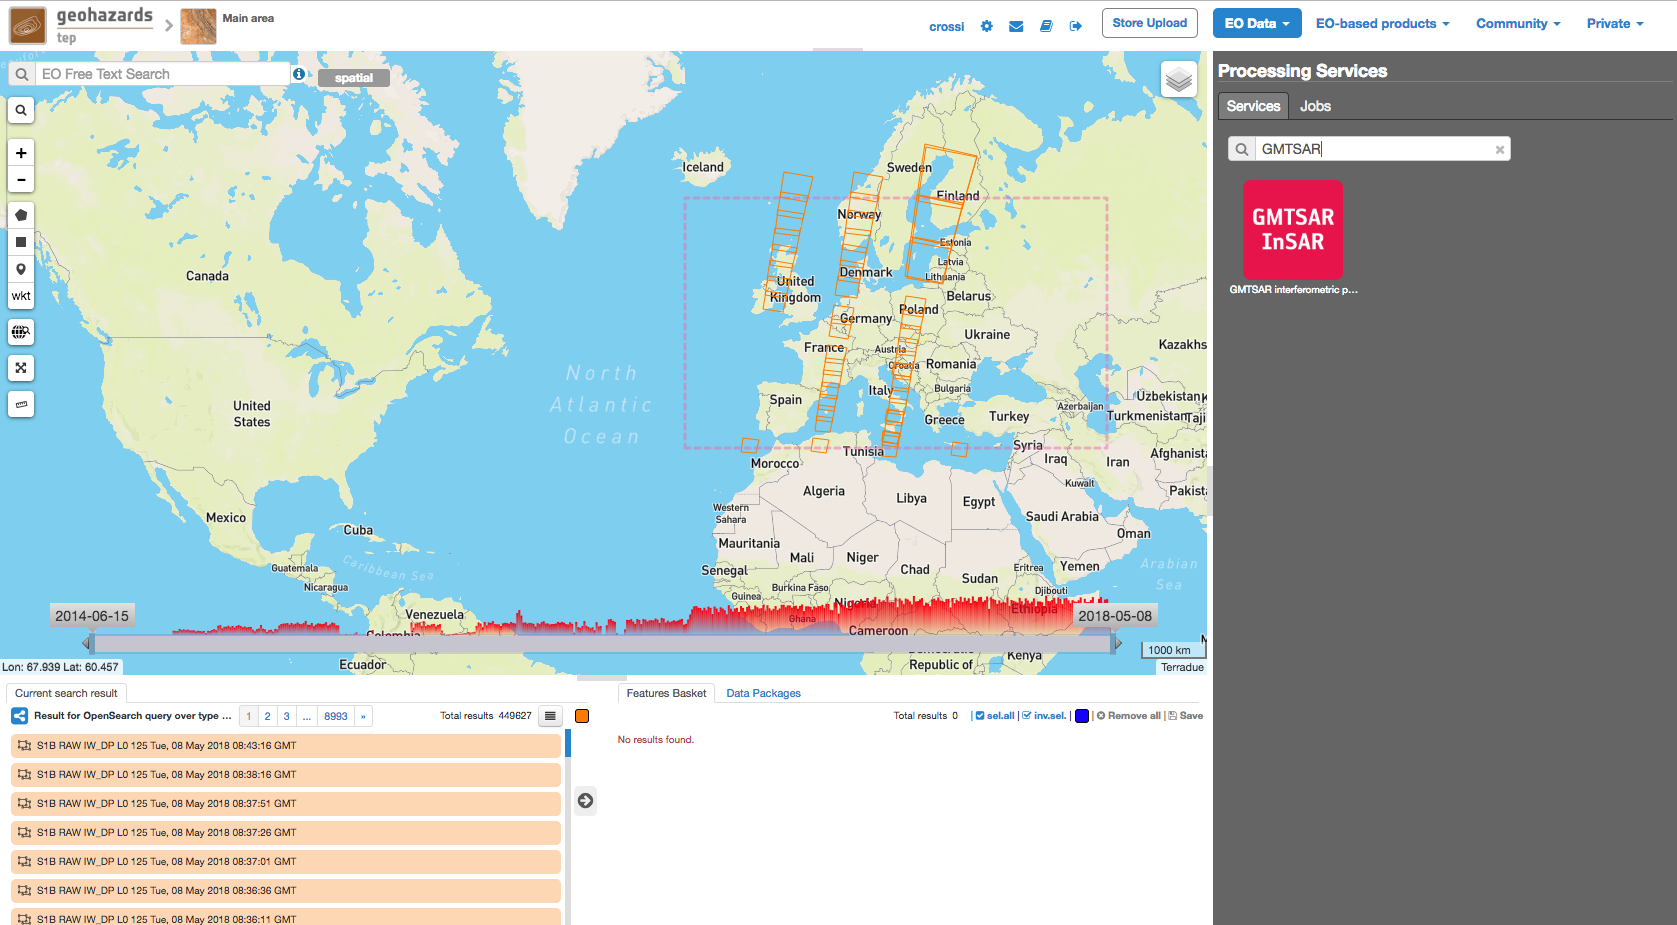
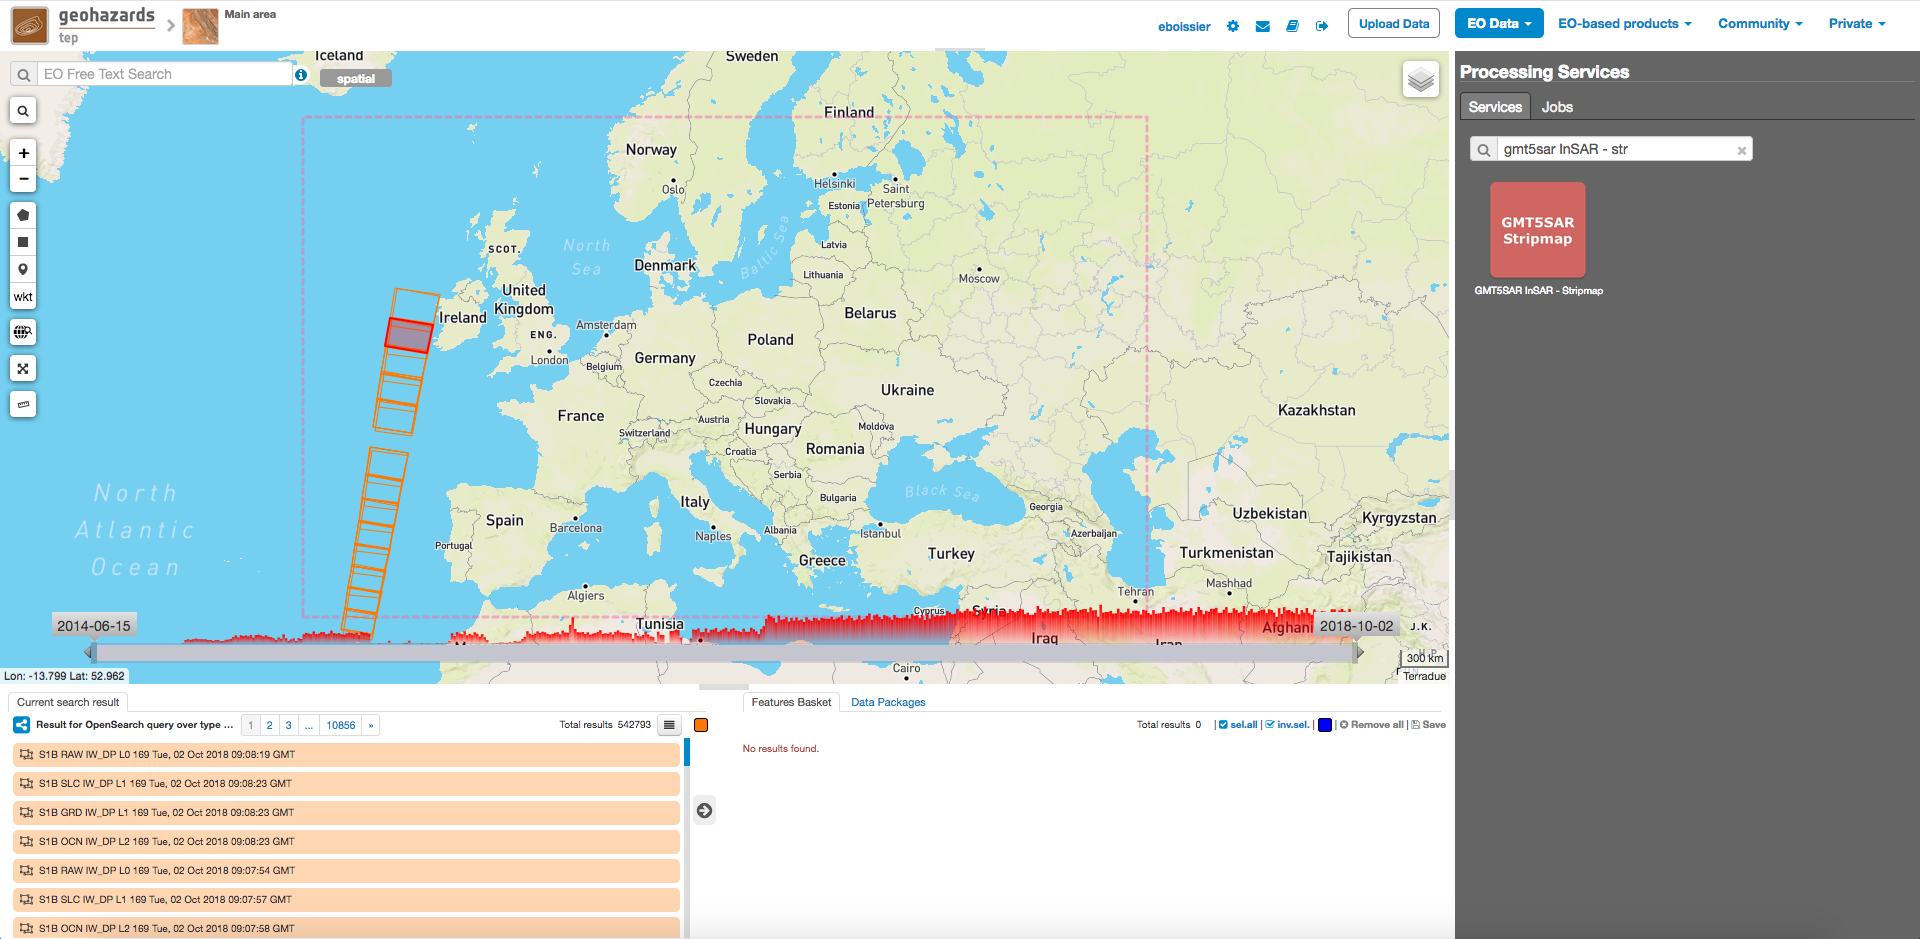
ups

diff --git a/source/tutorials/gmtsar.rst b/source/tutorials/gmtsar.rst
@@ -1,5 +1,5 @@
-GMTSAR InSAR - Stripmap
-~~~~~~~~~~~~~~~~~~~~~~~
+GMT5SAR InSAR - Stripmap
+~~~~~~~~~~~~~~~~~~~~~~~~
 
 .. image:: assets/tuto_gmtsar_icon.png
         
@@ -29,7 +29,7 @@ Select the processing
 
 * Login to the platform (see :doc:`user <../community-guide/user>` section)
 
-* Select the processing service GMT5SAR InSAR - Stripmap”:
+* Select the processing service "GMT5SAR InSAR - Stripmap":
 
 .. figure:: assets/tuto_gmtsar_v2_1.png
 	:figclass: align-center
@@ -69,7 +69,7 @@ then click on the button **Search**:
 
 * Drag and Drop the first result in the *Slave product reference* field:
 
-.. figure:: assets/tuto_gmtsar_v2_2_2.png
+.. figure:: assets/tuto_gmtsar_v2_2_1.png
 	:figclass: align-center
         :width: 750px
         :align: center
@@ -79,21 +79,21 @@ Master product reference
 
 * Perform the same procedure described previously (`Slave product reference`_), using the value **2010-03-28** in both the **time:start** field and the **time:end** field:
 
-.. figure:: assets/tuto_gmtsar_v2_2_2.png
+.. figure:: assets/tuto_gmtsar_v2_2_1.png
 	:figclass: align-center
         :width: 750px
         :align: center
 
 * Drag and drop the first result in the *Master product reference* field:
 
-.. figure:: assets/tuto_gmtsar_v2_2_3.png
+.. figure:: assets/tuto_gmtsar_v2_2_1.png
 	:figclass: align-center
         :width: 750px
         :align: center
 
 * Select the Snaphu threshold
 
-.. figure:: assets/tuto_gmtsar_v2_2_3.png
+.. figure:: assets/tuto_gmtsar_v2_2_1.png
 	:figclass: align-center
         :width: 750px
         :align: center
